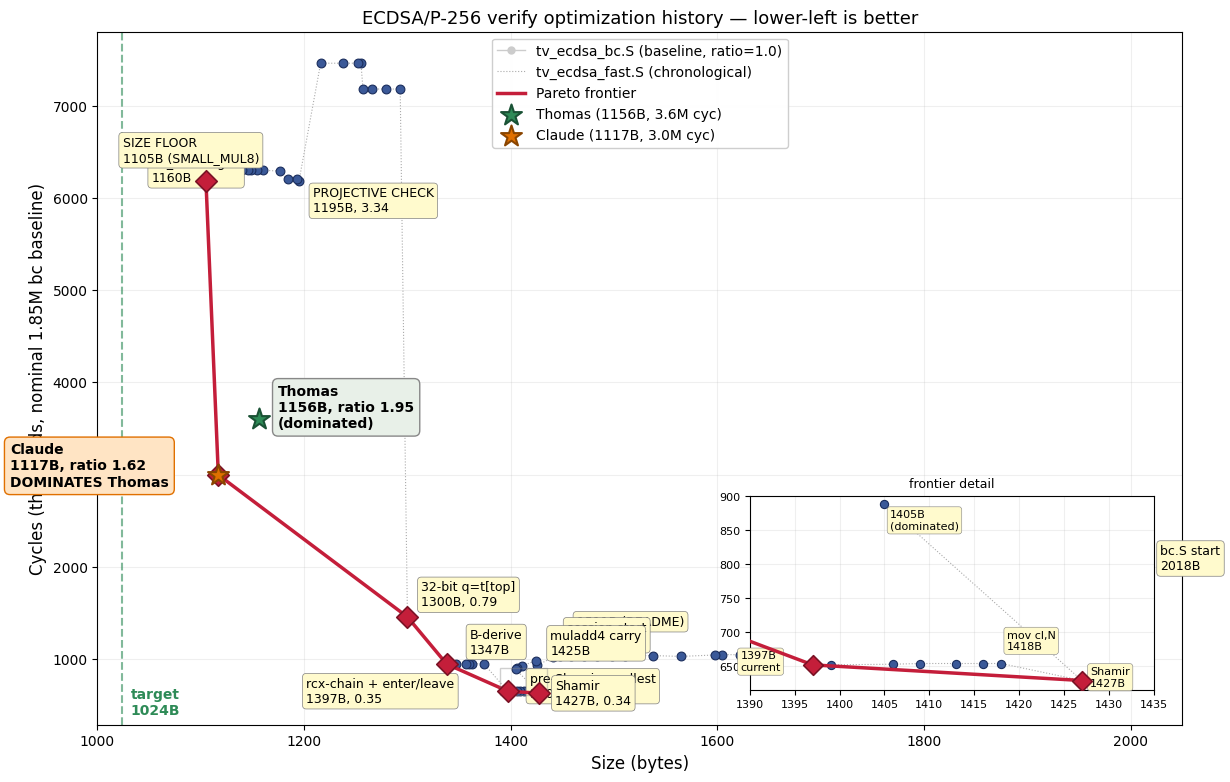
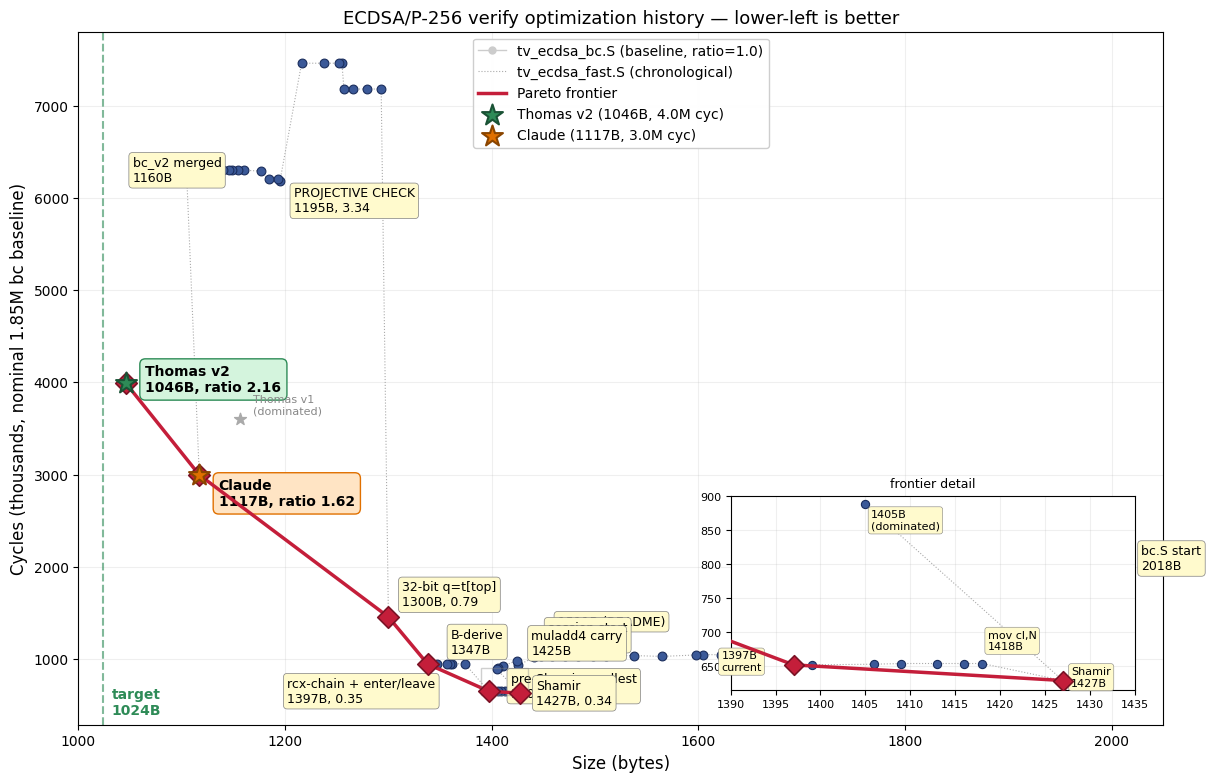
Chart: Thomas v2 at 1046B/3.99M — retakes size corner
Thomas's new point dominates our SMALL_MUL8 (1105B/6.2M) on
both axes.  Our 1117B/3.0M stays Pareto — 33% faster than
Thomas v2, but 71B larger.  Neither dominates.  Thomas v1
(1156B/3.6M) is now dominated by both his own v2 and our 1117B.

Frontier: [1046,3990]Thomas [1117,2996]us [1300,1456]
[1338,945] [1397,652] [1427,629].

diff --git a/docs/plot_history.py b/docs/plot_history.py
@@ -84,7 +84,7 @@ FAST = [
     (1140, 6300, None),   # H-check bytecode
     (1136, 6300, None),   # push/pop
     (1124, 6300, None),   # cGX block merge
-    (1105, 6186, "SIZE FLOOR\n1105B (SMALL_MUL8)"),  # bt-on-cN, loop+scasd
+    (1105, 6186, None),   # SMALL_MUL8 — dominated by Thomas v2 now
     # --- Pareto pivot: loop→dec+jnz in mul8. +12B but halves cycles.
     # This point DOMINATES THOMAS on both axes. ---
     (1117, 2996, None),   # 3049/1883*1850 — CLAUDE star
@@ -99,15 +99,15 @@ def pareto(pts):
     front.sort(key=lambda i: pts[i][0])
     return front
 
-# External reference — DOMINATED by (1117, 2996) on both axes.
-# Still drawn as a reference marker but no longer on the frontier.
-THOMAS = (1156, 3600, "Thomas\n1156B, 1.95")
-CLAUDE = (1117, 2996, "Claude\n1117B, 1.62")  # dominates Thomas
-TARGET = 1024
+# Thomas v1 (1156B/1.95) is dominated by OUR 1117B AND by his own v2.
+# Thomas v2 (1046B/3.99M) dominates our SMALL_MUL8 (1105B/6.19M) —
+# he reclaimed the size corner.  But our 1117B stays Pareto: faster.
+THOMAS_V1 = (1156, 3600, "Thomas v1\n1156B, 1.95")
+THOMAS    = (1046, 3990, "Thomas v2\n1046B, 2.16")   # new size record
+CLAUDE    = (1117, 2996, "Claude\n1117B, 1.62")       # Pareto: faster
+TARGET    = 1024
 
-# Frontier: compute over OUR points only now — Thomas is dominated.
-
-ALL_PTS = FAST + [THOMAS]
+ALL_PTS = FAST + [THOMAS, THOMAS_V1]
 FRONT = pareto(ALL_PTS)
 
 # ======================================================================
@@ -139,24 +139,31 @@ ax.plot(px, py, '-', color='#c41e3a', linewidth=2.5, zorder=4,
 ax.scatter(px, py, c='#c41e3a', s=120, marker='D',
            edgecolors='#7a1225', linewidths=1.2, zorder=5)
 
-# Thomas marker (star overlays the frontier diamond)
+# Thomas v2 marker — holds the size corner now.
 tb, tc, _ = THOMAS
 ax.scatter([tb], [tc], c='#2e8b57', s=250, marker='*',
            edgecolors='#1a5235', linewidths=1.5, zorder=6,
-           label=f'Thomas ({tb}B, {tc/1000:.1f}M cyc)')
-ax.annotate(f'Thomas\n{tb}B, ratio {tc/1850:.2f}\n(dominated)',
+           label=f'Thomas v2 ({tb}B, {tc/1000:.1f}M cyc)')
+ax.annotate(f'Thomas v2\n{tb}B, ratio {tc/1850:.2f}',
             (tb, tc), textcoords="offset points", xytext=(14, -6),
             fontsize=10, fontweight='bold',
-            bbox=dict(boxstyle='round,pad=0.4', fc='#e8f0e8',
-                      ec='#888', lw=1))
+            bbox=dict(boxstyle='round,pad=0.4', fc='#d4f4dd',
+                      ec='#2e8b57', lw=1))
+# Thomas v1 — dominated by both v2 and our 1117B.  Small gray marker.
+t1b, t1c, _ = THOMAS_V1
+ax.scatter([t1b], [t1c], c='#aaa', s=80, marker='*', zorder=3)
+ax.annotate(f'Thomas v1\n(dominated)', (t1b, t1c),
+            textcoords="offset points", xytext=(10, 4), fontsize=8,
+            color='#888')
 
-# Claude marker — DOMINATES Thomas (smaller AND faster).
+# Claude marker — Pareto-optimal: faster than Thomas v2, but v2 is
+# smaller.  Neither dominates.
 cb, cc, _ = CLAUDE
 ax.scatter([cb], [cc], c='#e07000', s=250, marker='*',
            edgecolors='#8a4500', linewidths=1.5, zorder=6,
            label=f'Claude ({cb}B, {cc/1000:.1f}M cyc)')
-ax.annotate(f'Claude\n{cb}B, ratio {cc/1850:.2f}\nDOMINATES Thomas',
-            (cb, cc), textcoords="offset points", xytext=(-150, -8),
+ax.annotate(f'Claude\n{cb}B, ratio {cc/1850:.2f}',
+            (cb, cc), textcoords="offset points", xytext=(14, -22),
             fontsize=10, fontweight='bold',
             bbox=dict(boxstyle='round,pad=0.4', fc='#ffe4c4',
                       ec='#e07000', lw=1))
